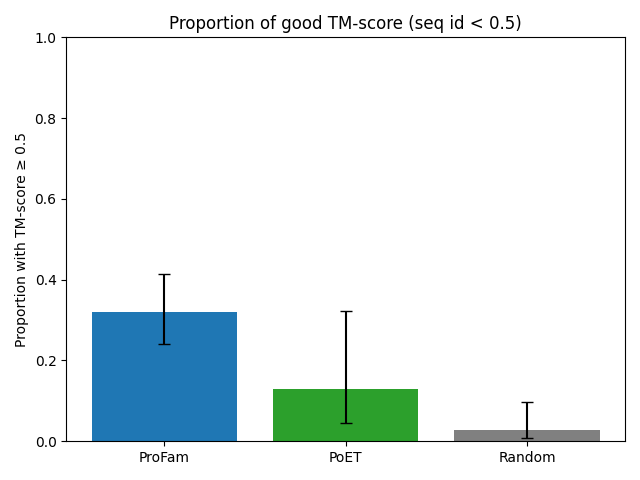
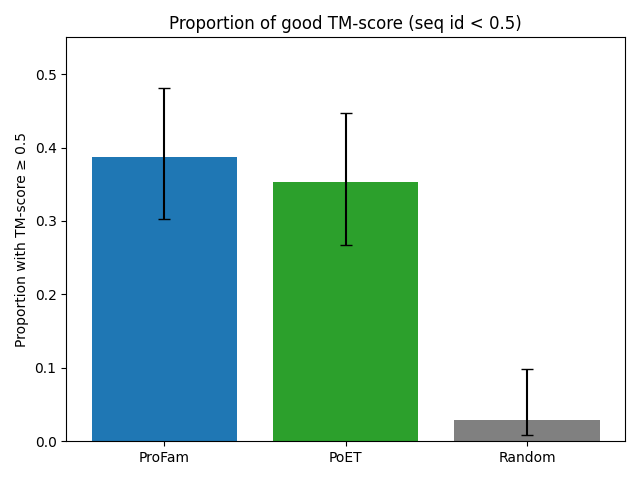
update plots

diff --git a/scripts/adhoc_analysis/compare_profam_poet_structual_comparison.py b/scripts/adhoc_analysis/compare_profam_poet_structual_comparison.py
@@ -4,15 +4,20 @@ import seaborn as sns
 import numpy as np
 from statsmodels.nonparametric.smoothers_lowess import lowess
 
-profam_csv = "../sampling_results/colabfold_outputs/profam_structural_evaluation.csv"
-poet_csv = "../sampling_results/colabfold_outputs/poet_structural_eval/poet_structural_evaluation.csv"
+# profam_csv = "../sampling_results/colabfold_outputs/profam_structural_evaluation.csv"
+# poet_csv = "../sampling_results/colabfold_outputs/poet_structural_eval/poet_structural_evaluation.csv"
+profam_csv = "../sampling_results/colabfold_outputs/foldseek_combined_val_test_2025_09_17_seq_sim_lt_0p5/structural_evaluation.csv"
+poet_csv = "../sampling_results/poet/poet_colabfold_outputs_seq_sim_lt_0p5/structural_evaluation.csv"
 random_csv = "../sampling_results/randomly_mutated_sequences/random_colabfold_outputs/random_structural_evaluation.csv"
 
 
 
 profam_df = pd.read_csv(profam_csv)
+print(f"ProFam df: {profam_df.shape}")
 poet_df = pd.read_csv(poet_csv)
+print(f"PoET df: {poet_df.shape}")
 random_df = pd.read_csv(random_csv)
+print(f"Random df: {random_df.shape}")
 
 def barplot_prop_with_good_tm_score(
     profam_df,
@@ -77,7 +82,7 @@ def barplot_prop_with_good_tm_score(
 
     plt.figure()
     plt.bar(labels, props, color=bar_colors, yerr=yerr, capsize=4)
-    plt.ylim(0, 1)
+    plt.ylim(0, 0.55)
     plt.ylabel(f"Proportion with TM-score ≥ {tm_threshold}")
     plt.title(f"Proportion of good TM-score (seq id < {seq_threshold})")
     plt.tight_layout()
@@ -88,12 +93,15 @@ def barplot_prop_with_good_tm_score(
     plt.close()
 
 def make_structure_sequence_similarity_plots(
-    profam_df: pd.DataFrame, 
+    profam_ensemble_df: pd.DataFrame,
+    profam_single_df: pd.DataFrame,
     poet_df: pd.DataFrame, 
+    random_df: pd.DataFrame,
     plot_ensemble: bool = True,
     plot_single: bool = True,
     plot_poet: bool = True,
     plot_random: bool = True,
+    save_name: str = "",
 ):
     structure_metrics = ["tm_max", "lddt_max", "mean_plddt"]
 
@@ -109,9 +117,8 @@ def make_structure_sequence_similarity_plots(
 
         # ProFam ensemble
         if plot_ensemble:
-            df_mode = profam_df[profam_df["generated_pdb"].astype(str).str.contains("ensemble", na=False)]
-            x = df_mode["seq_identity_max"].to_numpy(dtype=float)
-            y = df_mode[structure_metric].to_numpy(dtype=float)
+            x = profam_ensemble_df["seq_identity_max"].to_numpy(dtype=float)
+            y = profam_ensemble_df[structure_metric].to_numpy(dtype=float)
             mask = np.isfinite(x) & np.isfinite(y)
             print(f"ProFam ensemble: {len(x[mask])} points")
             x_valid, y_valid = x[mask], y[mask]
@@ -125,9 +132,8 @@ def make_structure_sequence_similarity_plots(
 
         # ProFam single
         if plot_single:
-            df_mode = profam_df[profam_df["generated_pdb"].astype(str).str.contains("single", na=False)]
-            x = df_mode["seq_identity_max"].to_numpy(dtype=float)
-            y = df_mode[structure_metric].to_numpy(dtype=float)
+            x = profam_single_df["seq_identity_max"].to_numpy(dtype=float)
+            y = profam_single_df[structure_metric].to_numpy(dtype=float)
             mask = np.isfinite(x) & np.isfinite(y)
             print(f"ProFam single: {len(x[mask])} points")
             x_valid, y_valid = x[mask], y[mask]
@@ -182,11 +188,21 @@ def make_structure_sequence_similarity_plots(
             figname += "_poet"
         if plot_random:
             figname += "_random"
-        plt.savefig(f"plots_for_paper/{figname}_{structure_metric}.png")
+        plt.savefig(f"plots_for_paper/{figname}_{structure_metric}_{save_name}.png")
         plt.close()
 
 
 
 
-make_structure_sequence_similarity_plots(profam_df, poet_df, plot_ensemble=True, plot_single=False, plot_poet=True, plot_random=True)
+make_structure_sequence_similarity_plots(
+    profam_ensemble_df = profam_df, 
+    profam_single_df = None, 
+    poet_df = poet_df, 
+    random_df = random_df, 
+    plot_ensemble=True, 
+    plot_single=False, 
+    plot_poet=True, 
+    plot_random=True,
+    save_name="foldseek_combined_val_test_2025_09_17_seq_sim_lt_0p5",
+)
 barplot_prop_with_good_tm_score(profam_df, poet_df, random_df, seq_threshold=0.5, tm_threshold=0.5, include_ci=True, save_path="plots_for_paper/prop_good_tm_seq_lt_0.5_tm_ge_0.5.png")
